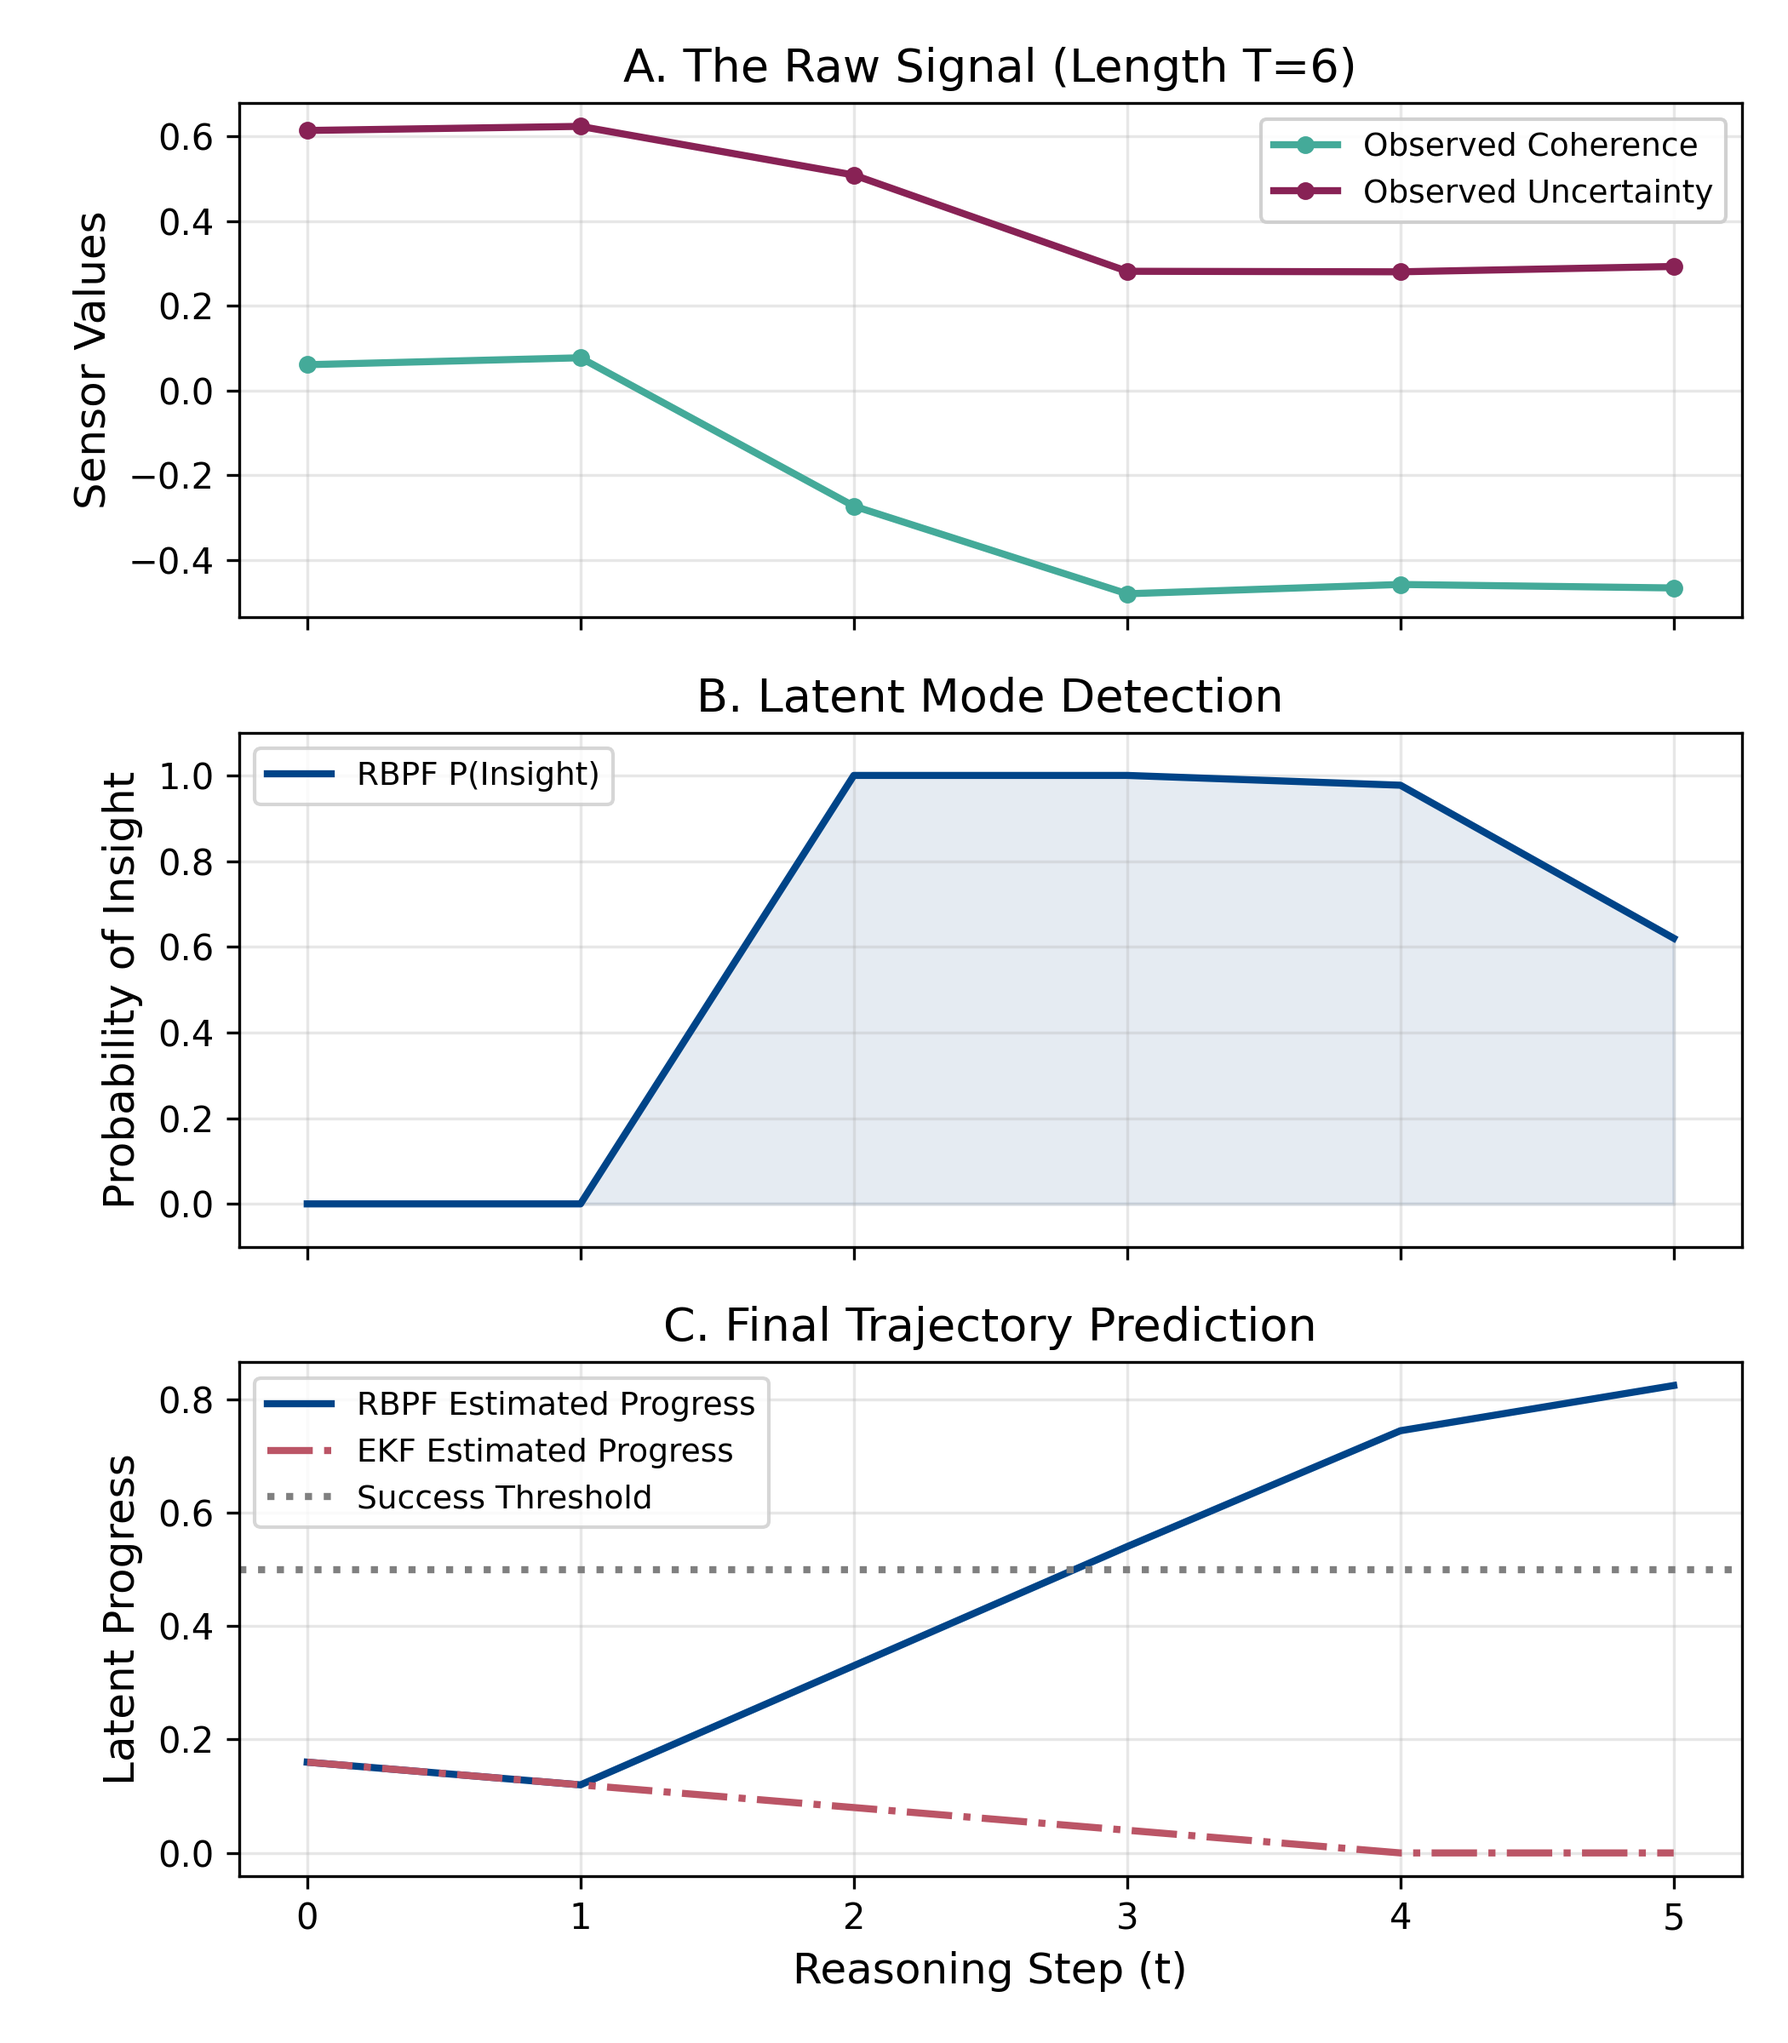
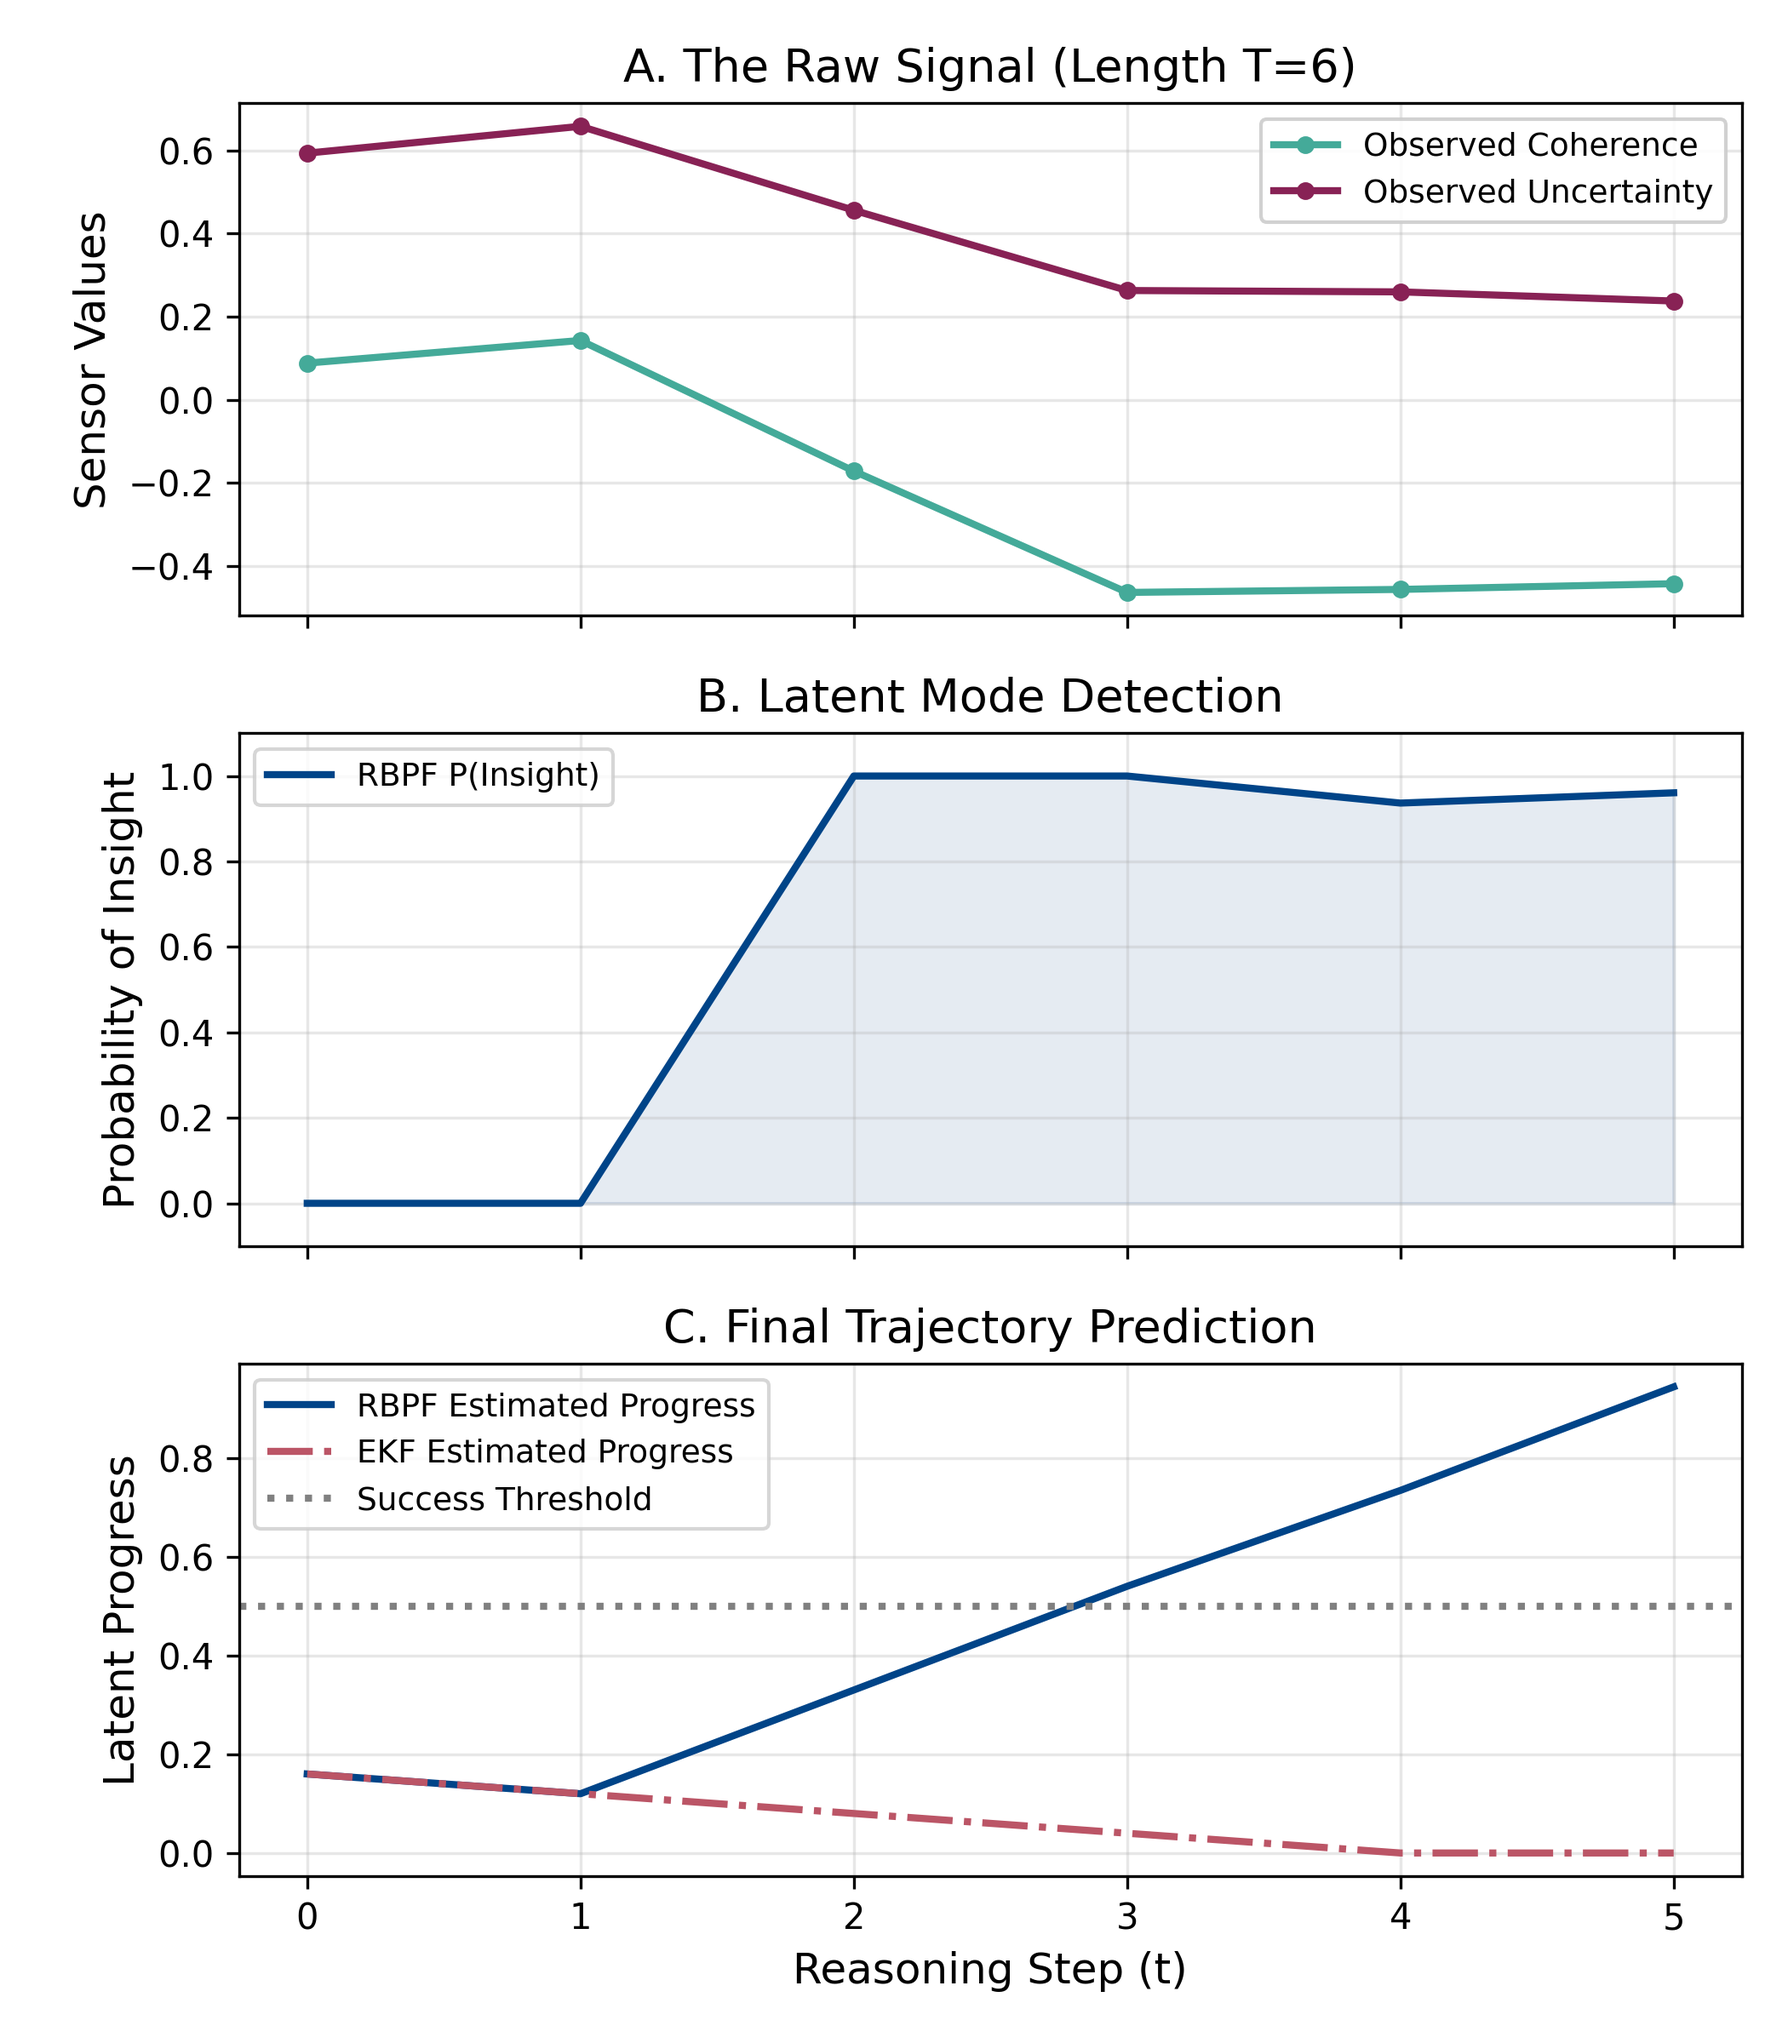
Update results, fix particle sweep consistency
- Commit corrected figures from fixed ablation run
- Commit ablation_results.csv (RBPF-Full 0.662, RBPF-NoRot 0.130)
- Rewrite particle_sweep.py to use same dynamics as run_simulation_eval
  (was using GSM8KLoader with different noise/starting state)
- Update Colab notebook to re-run particle sweep before plotting

diff --git a/src/evaluation/particle_sweep.py b/src/evaluation/particle_sweep.py
@@ -1,144 +1,114 @@
+"""
+Particle scaling study: AUC vs. particle count for RBPF and PF.
+Uses the same dynamics/sensors as run_simulation_eval.py for consistency.
+Results saved to particle_sweep_results.npy and used by plot_particle_scaling.py.
+"""
+
 import time
 import numpy as np
-import gc  # Garbage Collection
+import gc
 from sklearn.metrics import roc_auc_score
 
-# Data & Physics
-from src.data.gsm8k_loader import GSM8KLoader
+from src.simulation.slds import SLDSSimulator, Mode
 from src.evaluation.online_prediction import OnlineCorrectnessPredictor
-
-# Filters
+from src.evaluation.run_simulation_eval import make_dynamics_and_sensors, compute_label
 from src.filters.rbpf_slds import RBPF_SLDS, RBPFConfig
 from src.filters.pf_baseline import PF_SLDS, PFConfig
 from src.filters.ekf_baseline import EKFBaseline, EKFConfig
 
-def run_filter_on_trace(ys, filter_obj, predictor, is_particle_filter=False, is_rbpf=False):
-    """
-    Runs filter on the full trajectory (or up to T=20) to ensure the event is seen
-    """
-    limit_steps = 20 
-    
-    pred_at_k = 0.5
-    
-    # Run filter up to the limit or end of data
-    steps = min(len(ys), limit_steps + 1)
-    
-    for t in range(steps):
-        # Update Filter
-        if is_particle_filter:
-            res = filter_obj.step(ys[t])
-            x_est = res[0] if isinstance(res, tuple) else res
-        elif is_rbpf:
-            filter_obj.step(ys[t])
+
+X0 = np.array([0.2, 0.5, 0.8, 0.2, 0.1])
+N_TRAJ      = 100
+T           = 35
+N_TRIALS    = 3
+
+
+def run_filter_on_trace(ys, filter_obj, predictor, is_rbpf=False, is_pf=False):
+    for y in ys:
+        if is_rbpf:
+            filter_obj.step(y)
+        elif is_pf:
+            x_est, _ = filter_obj.step(y)
         else:
-            mu, _ = filter_obj.step(ys[t])
+            mu, _ = filter_obj.step(y)
             x_est = mu
 
-        # Update Prediction (continuously update until the end)
-        if is_rbpf:
-            pred_at_k = predictor.prob_correct_from_particles(filter_obj.mus, filter_obj.weights)
-        elif is_particle_filter:
-            pred_at_k = predictor.prob_correct_from_state(x_est)
-        else:
-            # EKF
-            pred_at_k = predictor.prob_correct_from_state(x_est)
-                
-    return pred_at_k
+    if is_rbpf:
+        return predictor.prob_correct_from_particles(filter_obj.mus, filter_obj.weights)
+    return predictor.prob_correct_from_state(x_est)
+
 
 def main():
     np.random.seed(42)
-    print("Initializing components...")
-    predictor = OnlineCorrectnessPredictor()
-    loader = GSM8KLoader(config_name="main", split="test")
-    
-    cached_data = []
-    print("Caching 50 evaluation trajectories...")
-    while len(cached_data) < 50:
-        idx = np.random.randint(0, len(loader))
-        ys, label = loader.get_trajectory(idx)
-        if len(ys) >= 6:
-            cached_data.append((ys, label))
-            
-    print(f"Dataset ready. Starting Optimized Sweep...")
+    dyn, sensors = make_dynamics_and_sensors()
+    predictor    = OnlineCorrectnessPredictor()
 
-    N_TRIALS = 3
-    RBPF_particles = [10, 25, 50, 100, 200]
-    PF_particles = [10, 25, 50, 100, 200]
-    
+    # Cache trajectories so all filter variants see the same data
+    print(f"Generating {N_TRAJ} trajectories ...")
+    cached = []
+    while len(cached) < N_TRAJ:
+        xs, zs = SLDSSimulator(dyn).run(T=T, x0=X0)
+        label  = compute_label(xs, zs)
+        ys     = np.array([sensors.observe(xs[k + 1]) for k in range(T)])
+        cached.append((ys, label))
+
+    PARTICLE_COUNTS = [10, 25, 50, 100, 200]
+
     results = {
-        "RBPF": {N: {"metrics": [], "runtimes": []} for N in RBPF_particles},
-        "PF":   {N: {"metrics": [], "runtimes": []} for N in PF_particles},
-        "EKF":  {"metrics": [], "runtimes": []}
+        "RBPF": {N: {"metrics": [], "runtimes": []} for N in PARTICLE_COUNTS},
+        "PF":   {N: {"metrics": [], "runtimes": []} for N in PARTICLE_COUNTS},
+        "EKF":  {"metrics": [], "runtimes": []},
     }
 
-    # Run EKF once (deterministic)
-    print("\n=== Running Baseline (EKF) ===")
+    # EKF (deterministic — run once)
+    print("Running EKF ...")
     preds, labels, times = [], [], []
-    for ys, label in cached_data:
-        ekf = EKFBaseline(loader.dyn, loader.sensors, EKFConfig())
-        t0 = time.perf_counter()
-        p = run_filter_on_trace(ys, ekf, predictor, is_particle_filter=False)
-        dt = time.perf_counter() - t0
-        preds.append(p)
-        labels.append(label)
-        times.append(dt)
-    
+    for ys, label in cached:
+        ekf = EKFBaseline(dyn, sensors, EKFConfig())
+        t0  = time.perf_counter()
+        p   = run_filter_on_trace(ys, ekf, predictor)
+        times.append(time.perf_counter() - t0)
+        preds.append(p); labels.append(label)
     ekf_auc = roc_auc_score(labels, preds)
-    ekf_time = np.mean(times)
-    # Replicate for N_TRIALS so the plotter works
-    results["EKF"]["metrics"] = [{"auc_early": ekf_auc}] * N_TRIALS
-    results["EKF"]["runtimes"] = [ekf_time] * N_TRIALS
-    print(f"EKF Baseline AUC: {ekf_auc:.3f}")
-    
-    del ekf, preds, labels, times
-    gc.collect()
+    results["EKF"]["metrics"]  = [{"auc_early": ekf_auc}] * N_TRIALS
+    results["EKF"]["runtimes"] = [np.mean(times)] * N_TRIALS
+    print(f"  EKF AUC: {ekf_auc:.3f}")
 
-    # Run PFs
     for trial in range(N_TRIALS):
-        print(f"\n=== Trial {trial+1}/{N_TRIALS} ===")
-        
-        # RBPF
-        for N in RBPF_particles:
+        print(f"\nTrial {trial + 1}/{N_TRIALS}")
+
+        for N in PARTICLE_COUNTS:
+            # RBPF
             preds, labels, times = [], [], []
-            for ys, label in cached_data:
-                rbpf = RBPF_SLDS(loader.dyn, loader.sensors, RBPFConfig(num_particles=N))
-                t0 = time.perf_counter()
-                p = run_filter_on_trace(ys, rbpf, predictor, is_particle_filter=False, is_rbpf=True)
-                dt = time.perf_counter() - t0
-                preds.append(p)
-                labels.append(label)
-                times.append(dt)
-            
+            for ys, label in cached:
+                rbpf = RBPF_SLDS(dyn, sensors, RBPFConfig(num_particles=N))
+                t0   = time.perf_counter()
+                p    = run_filter_on_trace(ys, rbpf, predictor, is_rbpf=True)
+                times.append(time.perf_counter() - t0)
+                preds.append(p); labels.append(label)
             auc = roc_auc_score(labels, preds)
             results["RBPF"][N]["metrics"].append({"auc_early": auc})
             results["RBPF"][N]["runtimes"].append(np.mean(times))
-            print(f"  RBPF (N={N}): {auc:.3f}")
-            
-            del rbpf, preds, labels, times
-            gc.collect()
+            print(f"  RBPF N={N:3d}: AUC={auc:.3f}")
+            del rbpf; gc.collect()
 
-        # PF
-        for N in PF_particles:
+            # PF
             preds, labels, times = [], [], []
-            for ys, label in cached_data:
-                pf = PF_SLDS(loader.dyn, loader.sensors, PFConfig(num_particles=N))
+            for ys, label in cached:
+                pf = PF_SLDS(dyn, sensors, PFConfig(num_particles=N))
                 t0 = time.perf_counter()
-                p = run_filter_on_trace(ys, pf, predictor, is_particle_filter=True)
-                dt = time.perf_counter() - t0
-                preds.append(p)
-                labels.append(label)
-                times.append(dt)
-            
+                p  = run_filter_on_trace(ys, pf, predictor, is_pf=True)
+                times.append(time.perf_counter() - t0)
+                preds.append(p); labels.append(label)
             auc = roc_auc_score(labels, preds)
             results["PF"][N]["metrics"].append({"auc_early": auc})
             results["PF"][N]["runtimes"].append(np.mean(times))
-            print(f"  PF (N={N}):   {auc:.3f}")
-            
-            del pf, preds, labels, times
-            gc.collect()
+            print(f"  PF   N={N:3d}: AUC={auc:.3f}")
+            del pf; gc.collect()
 
     np.save("particle_sweep_results.npy", results)
     print("\nSaved particle_sweep_results.npy")
+
 
 if __name__ == "__main__":
     main()
